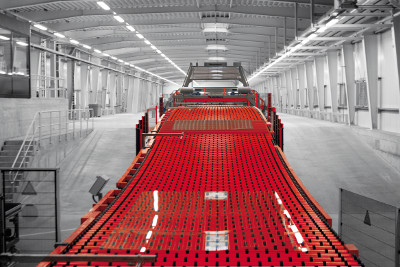
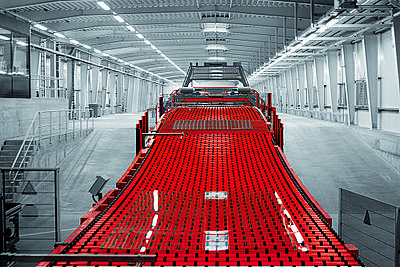
Updated welcome images.

diff --git a/welcome.html b/welcome.html
@@ -33,7 +33,7 @@ root: "../"
     <img src="../img/samples/planetarium.jpg" width="200" />
   </div>
   <div class="col-md-4">
-    <img src="../img/samples/flashglas.jpg" width="200" />
+    <img src="../img/samples/apsara.jpg" width="200" />
   </div>
   <div class="col-md-4">
     <img src="../img/samples/abandoned.jpg" width="200" />
